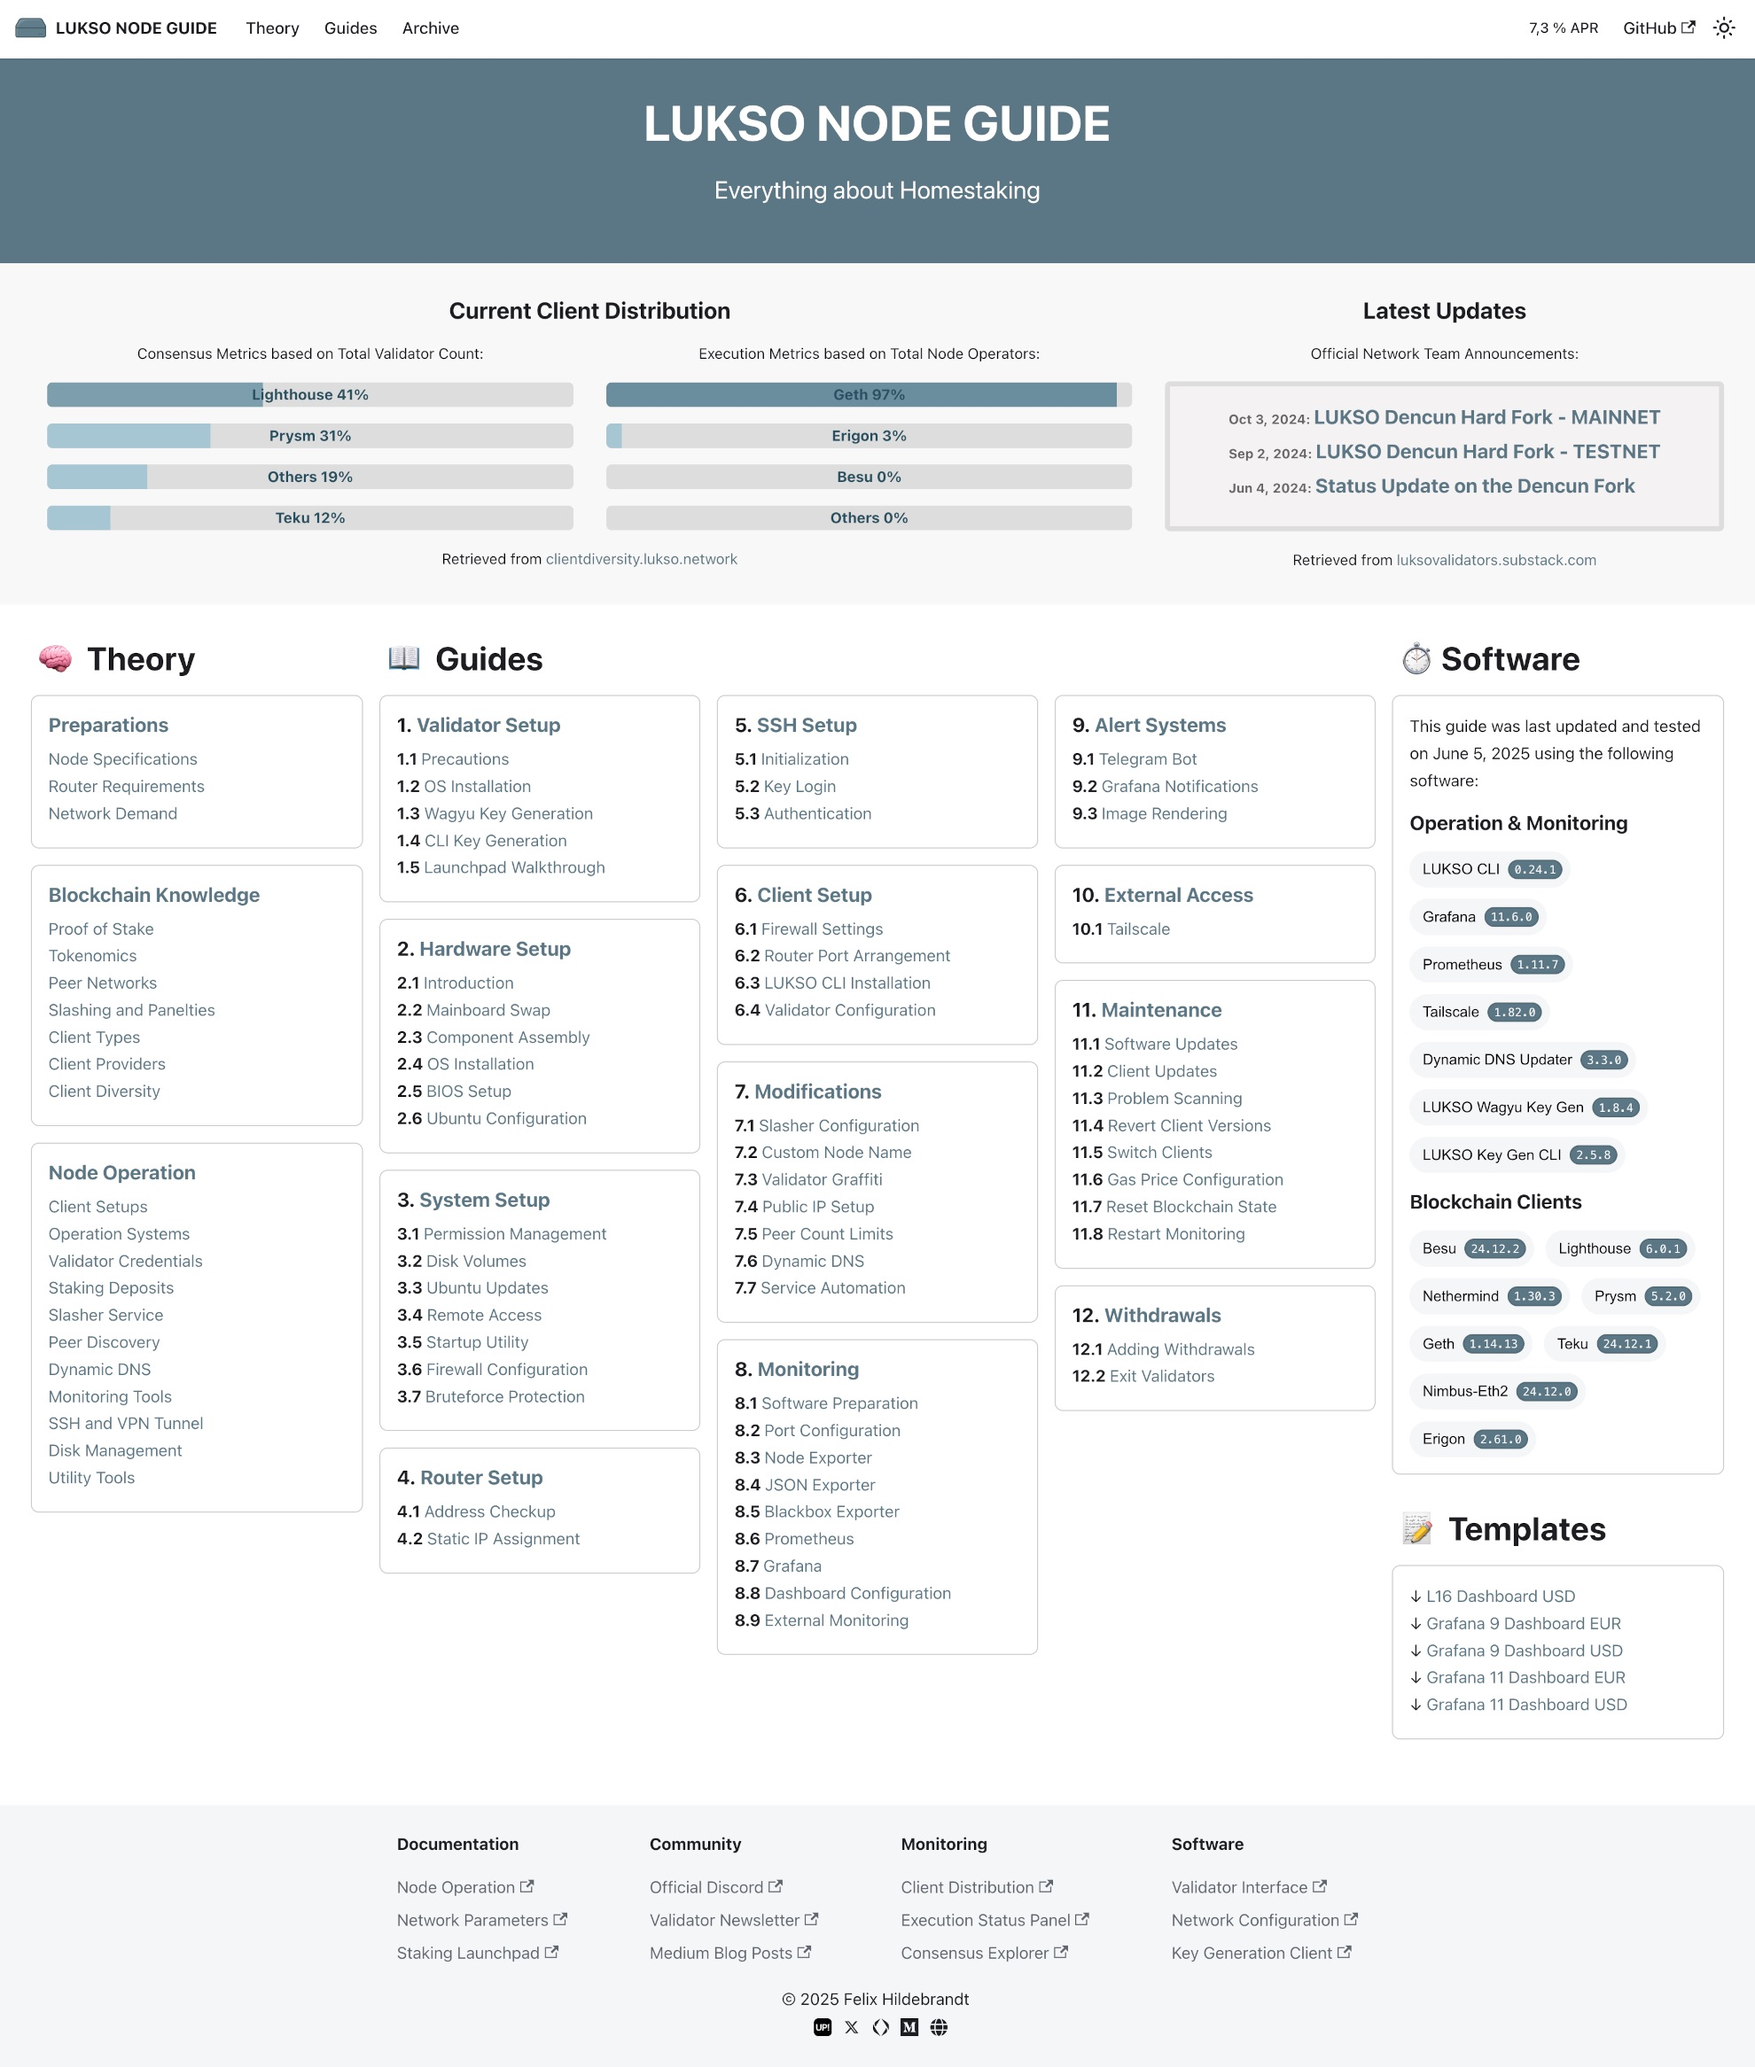
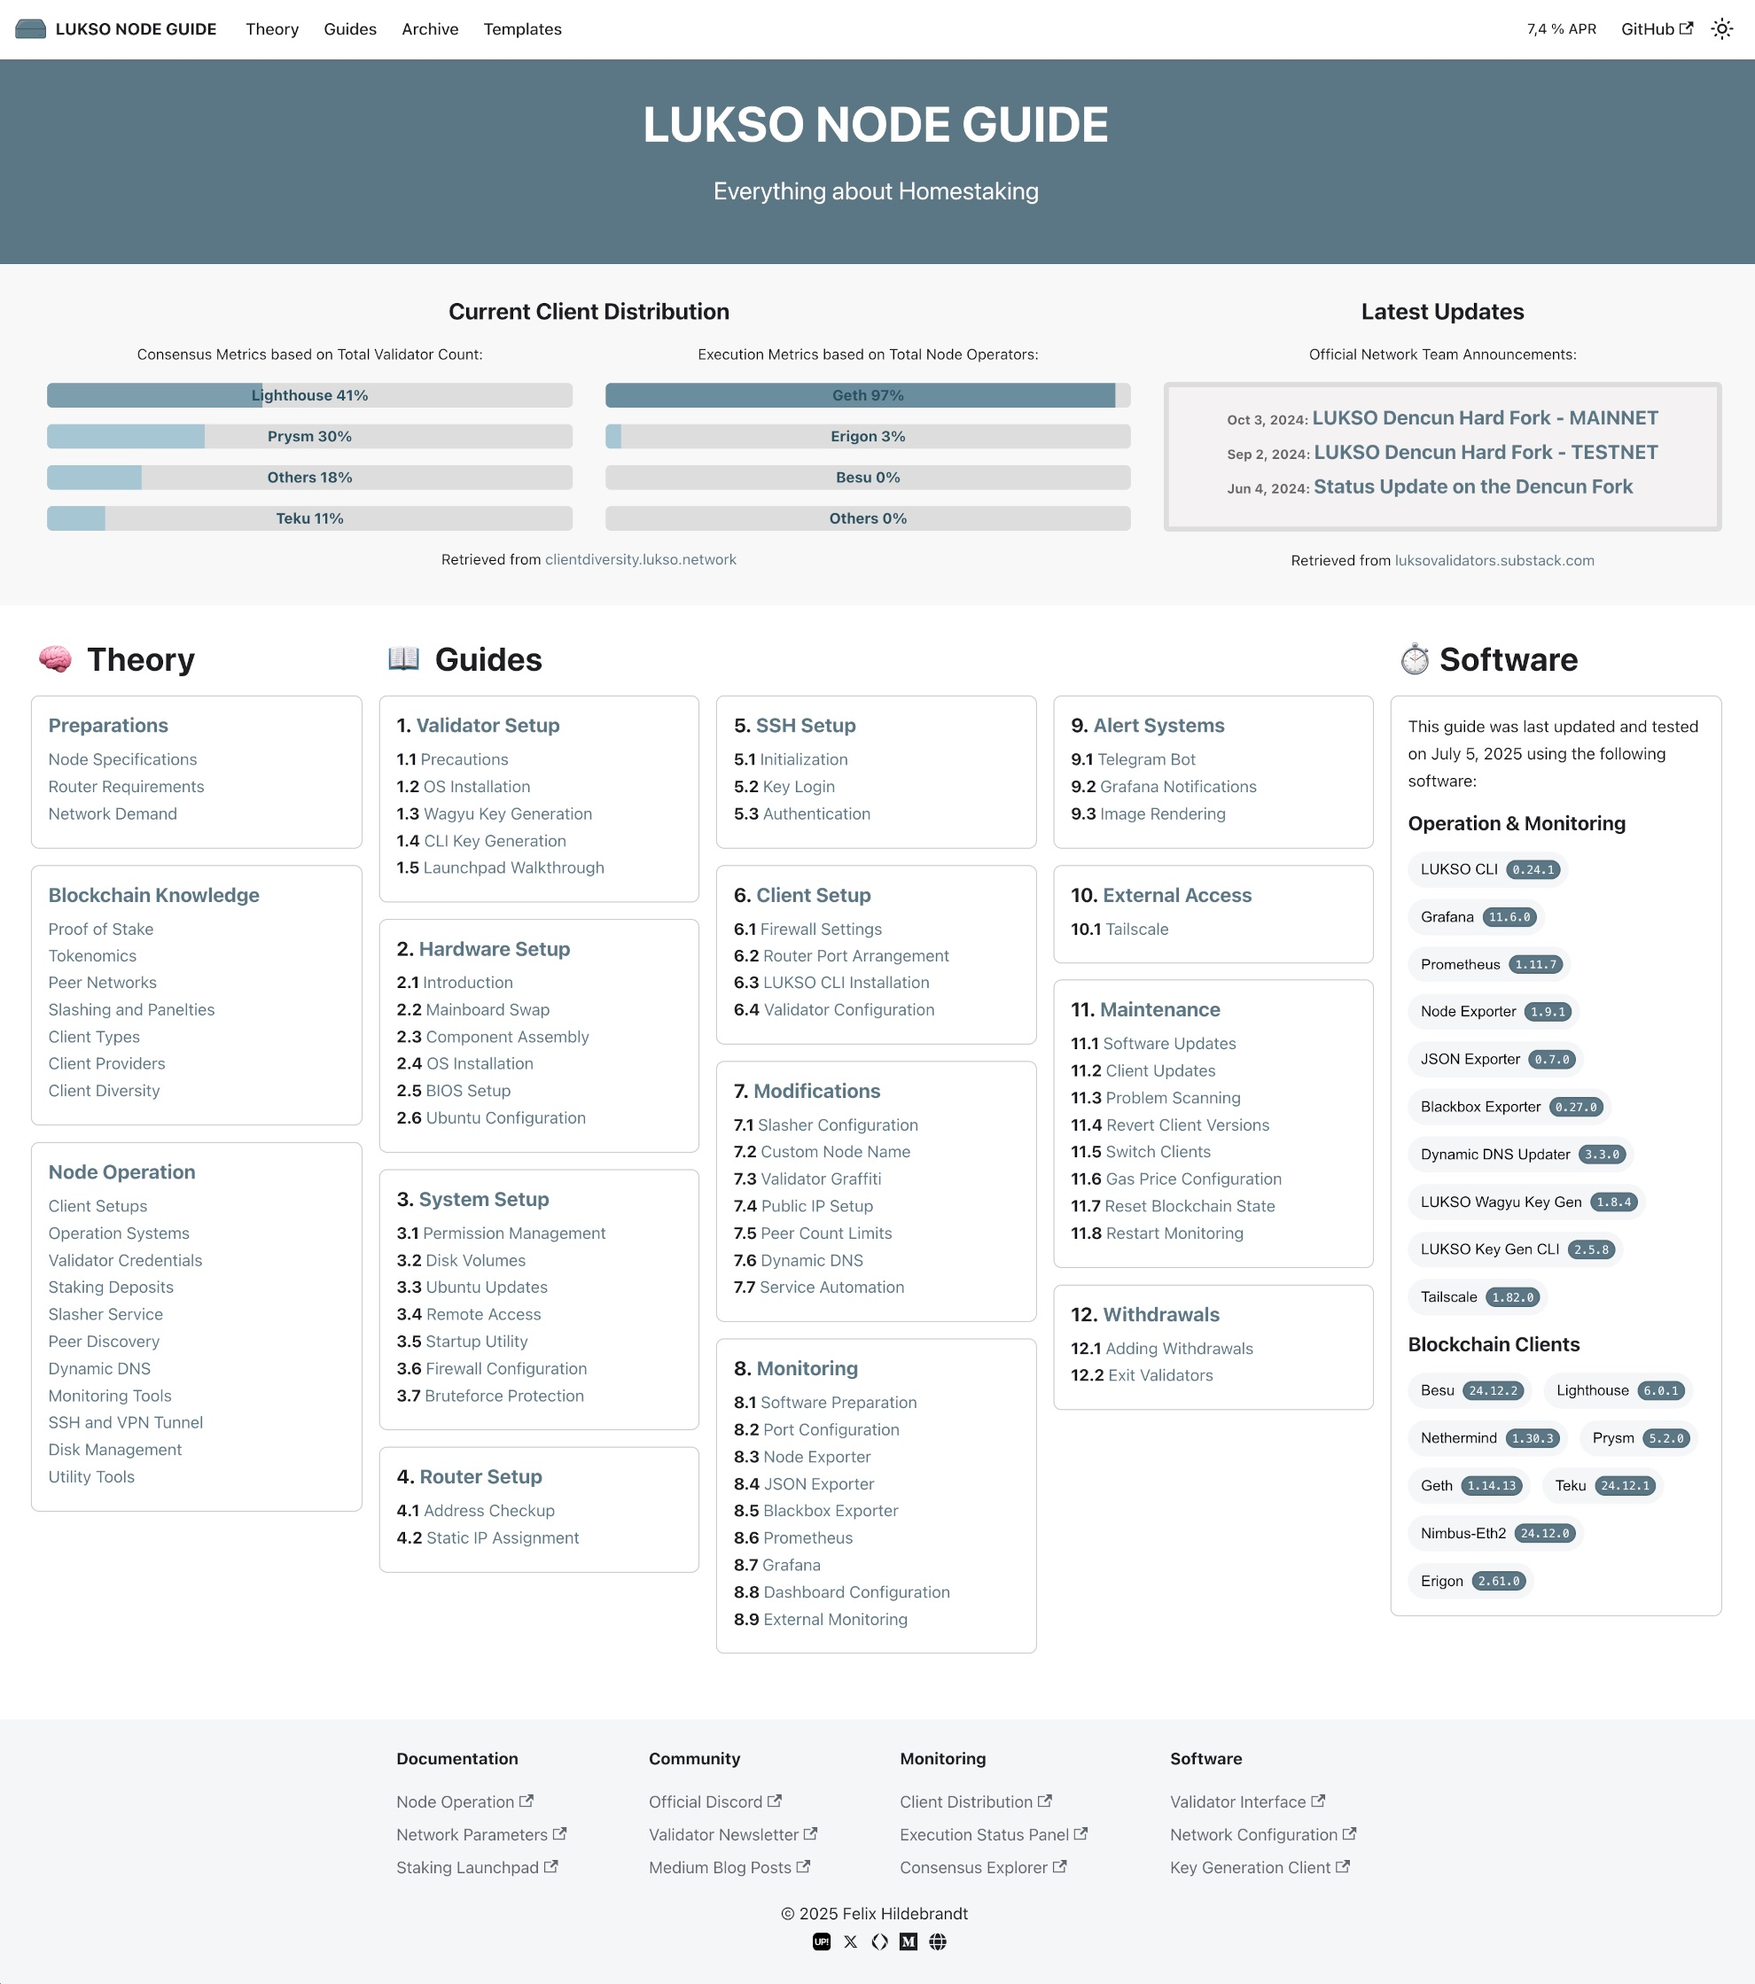
update menu bar + description

diff --git a/src/pages/templates/index.tsx b/src/pages/templates/index.tsx
@@ -6,10 +6,10 @@ import dashboards from "@site/src/consts/templates";
 
 function TemplatesPage() {
   const categorized = {
-    "Prysm & Lighthouse Dashboards": dashboards.filter(
+    "📝 Prysm & Lighthouse Dashboards": dashboards.filter(
       (d) => d.label === "Prysm & Lighthouse"
     ),
-    "Teku & Nimbus Dashboards": dashboards.filter(
+    "📝 Teku & Nimbus Dashboards": dashboards.filter(
       (d) => d.label === "Teku & Nimbus"
     ),
   };

diff --git a/src/components/StatusCard/StatusCard.tsx b/src/components/StatusCard/StatusCard.tsx
@@ -6,7 +6,7 @@ export function StatusCard() {
   return (
     <div className={styles.card}>
       <div>
-        This guide was last updated and tested on July 5, 2025 using the
+        This guide was last updated and tested on July 8, 2025 using the
         following software:
       </div>
       {Object.entries(software).map(([category, tools]) => (

diff --git a/docusaurus.config.ts b/docusaurus.config.ts
@@ -81,6 +81,11 @@ const config: Config = {
           label: "Archive",
         },
         {
+          to: "/templates",
+          position: "left",
+          label: "Templates",
+        },
+        {
           type: "custom-aprButton",
           position: "right",
         },

diff --git a/src/pages/templates/templates.module.css b/src/pages/templates/templates.module.css
@@ -42,7 +42,7 @@
 .categorySection {
   border: 1px solid #ccc;
   border-radius: 12px;
-  padding: 1.5rem;
+  padding: 1rem;
   margin-top: 0;
 }
 
